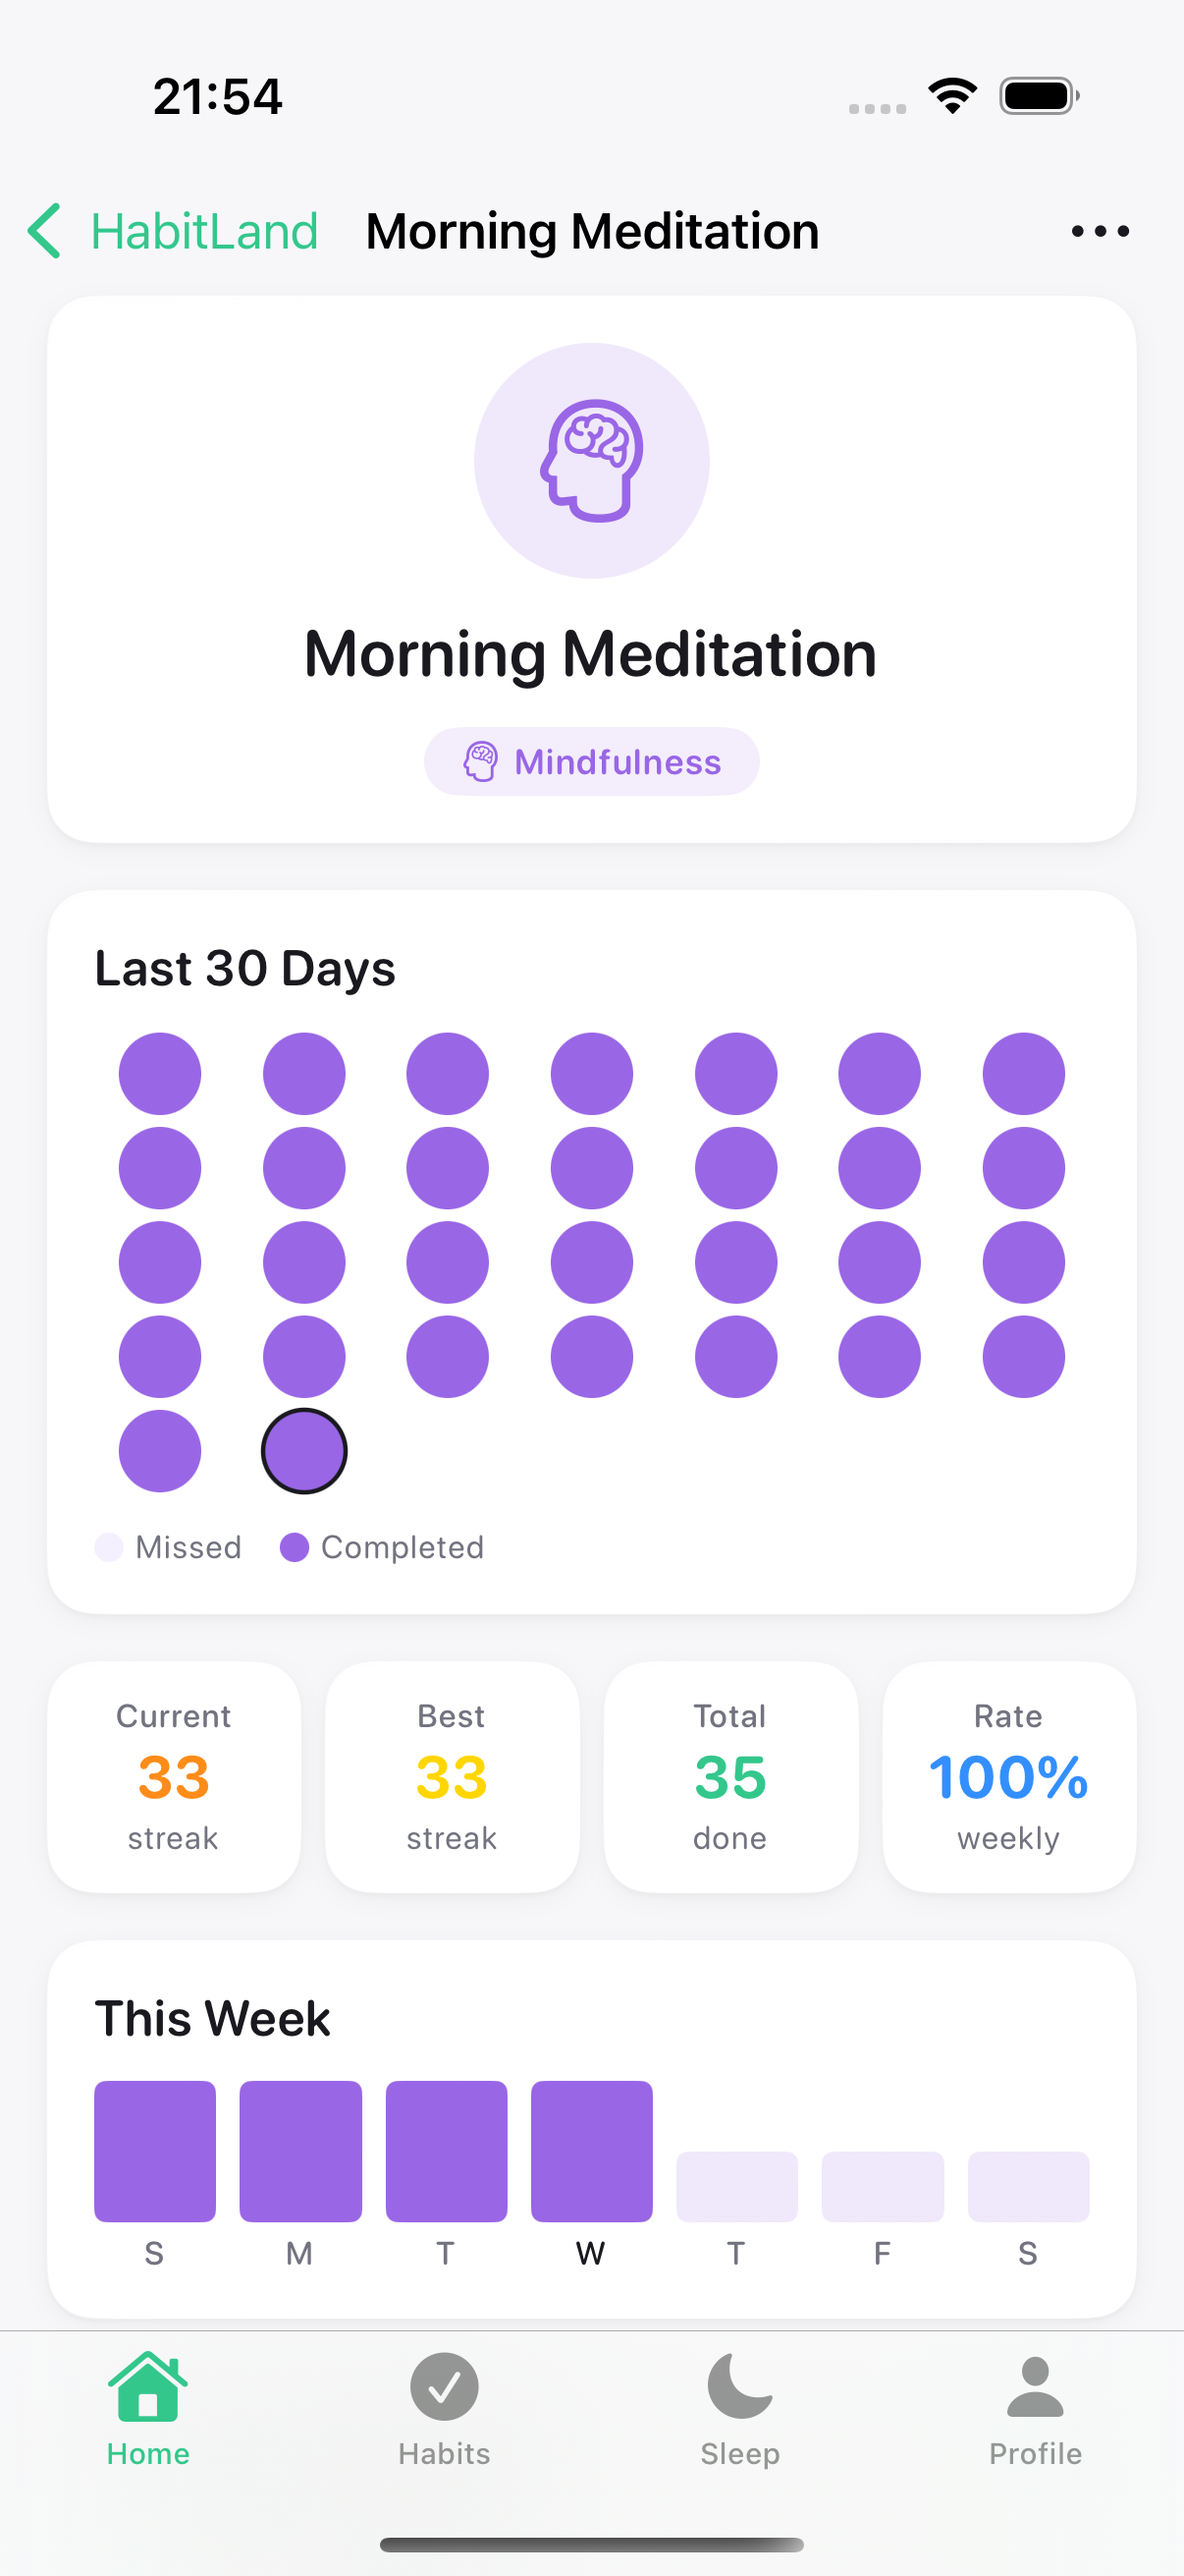
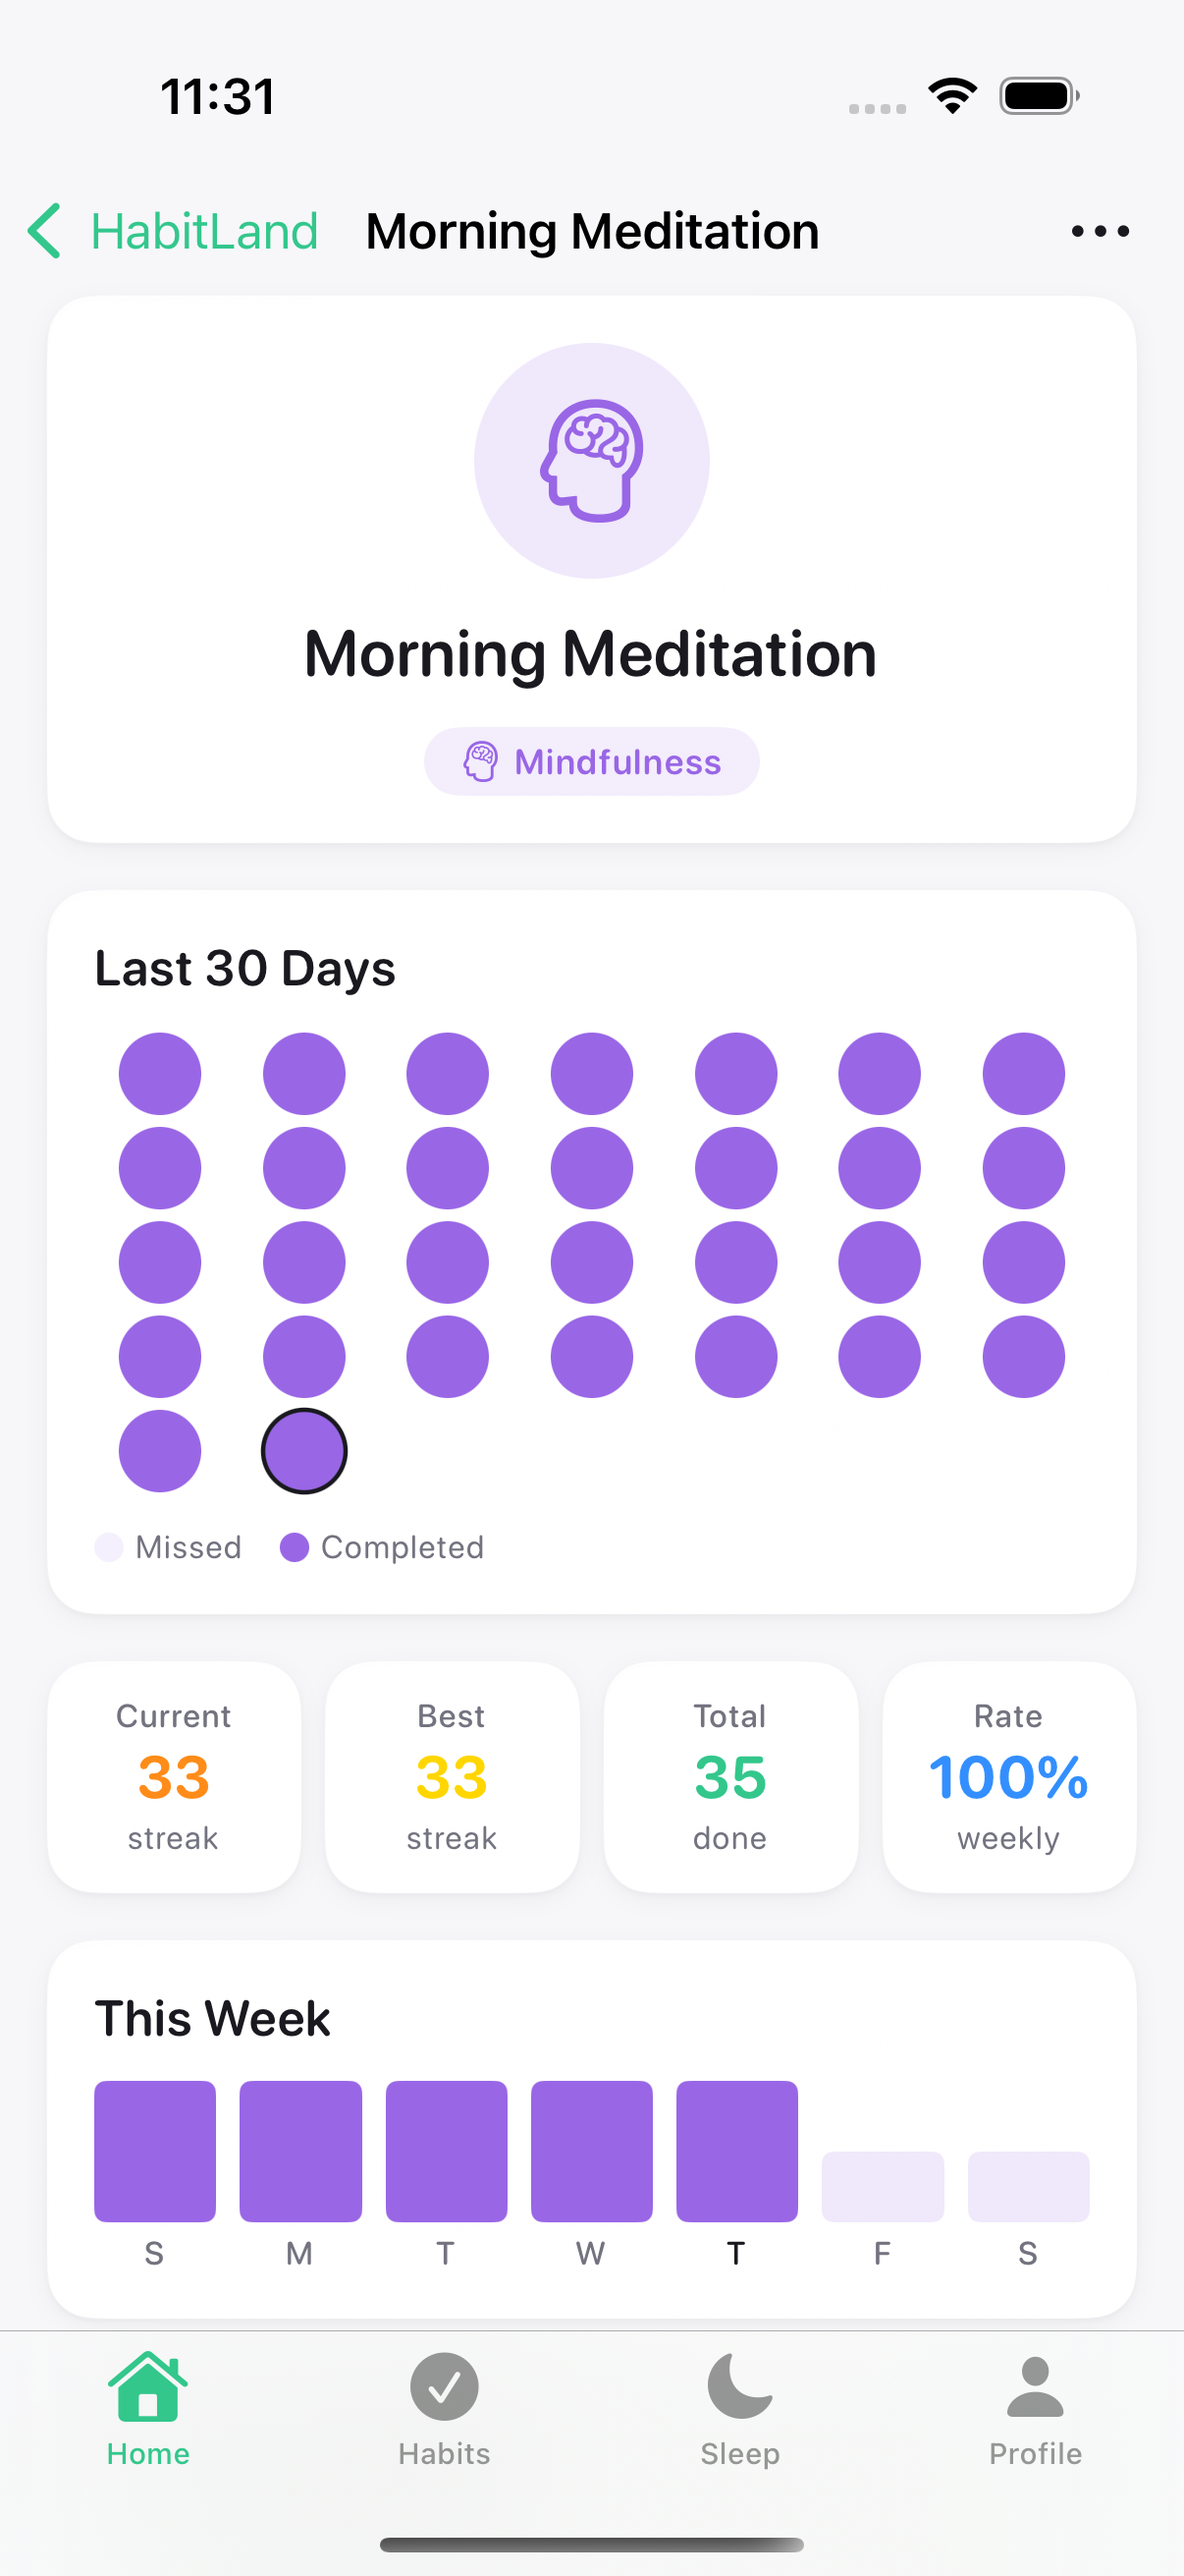
fix: notification cleanup, reminder screenshot, reduce motion support
- Fix EditHabitView/CreateHabitView: pass icon and customMessage to scheduleHabitReminder
- Remove dead scheduleHabitReminders (grouped) function
- Fix morning motivation: rotate messages by day instead of random (repeating notification)
- Add Reduce Motion support to all HLAnimation properties
- Add reminder screenshot (06) to App Store screenshots
- Seed reminder data on Morning Meditation for screenshot showcase

Changed region(s): [[0.5522, 0.8032, 0.675, 0.865], [0.1841, 0.0309, 0.2454, 0.0618], [0.1227, 0.0309, 0.1534, 0.0618]]

diff --git a/HabitLand/Services/NotificationManager.swift b/HabitLand/Services/NotificationManager.swift
@@ -33,46 +33,6 @@ final class NotificationManager: ObservableObject {
 
     // MARK: - Habit Reminders
 
-    func scheduleHabitReminders(habits: [(id: UUID, name: String, icon: String, reminderTime: Date)]) {
-        let reminderIds = habits.map { "habit-\($0.id.uuidString)" }
-        center.removePendingNotificationRequests(withIdentifiers: reminderIds + ["habit-group"])
-
-        let calendar = Calendar.current
-        var grouped: [String: [String]] = [:]
-        for habit in habits {
-            let key = "\(calendar.component(.hour, from: habit.reminderTime)):\(calendar.component(.minute, from: habit.reminderTime))"
-            grouped[key, default: []].append(habit.name)
-        }
-
-        for (timeKey, names) in grouped {
-            let parts = timeKey.split(separator: ":").compactMap { Int($0) }
-            guard parts.count == 2 else { continue }
-
-            let content = UNMutableNotificationContent()
-            if names.count == 1 {
-                content.title = "Time for \(names[0])"
-                content.body = "Don't break the chain! Complete your habit now."
-            } else {
-                content.title = "\(names.count) Habits Waiting"
-                let listed = names.prefix(3).joined(separator: ", ")
-                content.body = names.count <= 3
-                    ? "Time for \(listed)"
-                    : "Time for \(listed) and \(names.count - 3) more"
-            }
-            content.sound = .default
-            content.categoryIdentifier = "habitReminder"
-
-            var components = DateComponents()
-            components.hour = parts[0]
-            components.minute = parts[1]
-            let trigger = UNCalendarNotificationTrigger(dateMatching: components, repeats: true)
-
-            let identifier = names.count == 1 ? "habit-\(timeKey)" : "habit-group-\(timeKey)"
-            let request = UNNotificationRequest(identifier: identifier, content: content, trigger: trigger)
-            center.add(request)
-        }
-    }
-
     func scheduleHabitReminder(habitId: UUID, habitName: String, icon: String = "", at time: Date, customMessage: String = "") {
         let content = UNMutableNotificationContent()
         content.title = "Time for \(habitName)"
@@ -166,7 +126,8 @@ final class NotificationManager: ObservableObject {
             ("Fresh Start! 💪", "Yesterday is done. Today you can be even better."),
         ]
 
-        guard let pick = messages.randomElement() else { return }
+        let dayOfYear = Calendar.current.ordinality(of: .day, in: .year, for: Date()) ?? 1
+        let pick = messages[dayOfYear % messages.count]
         let content = UNMutableNotificationContent()
         content.title = pick.0
         content.body = pick.1

diff --git a/HabitLandUITests/AppStoreScreenshots.swift b/HabitLandUITests/AppStoreScreenshots.swift
@@ -68,17 +68,43 @@ final class AppStoreScreenshots: XCTestCase {
         dismissEverything(app)
         save(app, dir + "05_profile.png")
 
-        // 6. POMODORO TIMER
+        // 6. HABIT REMINDER — navigate from habit detail
         app.tabBars.buttons["Home"].tap()
         sleep(2)
-        // Tap Pomodoro button in toolbar
+        let meditationForReminder = app.staticTexts["Morning Meditation"]
+        if meditationForReminder.waitForExistence(timeout: 3) && meditationForReminder.isHittable {
+            meditationForReminder.tap()
+            sleep(2)
+            // Scroll down to find Reminders action row
+            app.swipeUp()
+            sleep(1)
+            let remindersLink = app.staticTexts["Reminders"]
+            if remindersLink.waitForExistence(timeout: 3) && remindersLink.isHittable {
+                remindersLink.tap()
+                sleep(2)
+                // Scroll down to show Custom Message and Preview sections
+                app.swipeUp()
+                sleep(1)
+                save(app, dir + "06_reminder.png")
+                // Go back to home
+                if app.navigationBars.buttons.element(boundBy: 0).exists {
+                    app.navigationBars.buttons.element(boundBy: 0).tap()
+                    sleep(1)
+                }
+            }
+            // Back from detail
+            if app.navigationBars.buttons.element(boundBy: 0).exists {
+                app.navigationBars.buttons.element(boundBy: 0).tap()
+                sleep(1)
+            }
+        }
+
+        // 7. POMODORO TIMER
         let pomodoroBtn = app.buttons["Pomodoro Focus"]
         if pomodoroBtn.waitForExistence(timeout: 3) && pomodoroBtn.isHittable {
             pomodoroBtn.tap()
             sleep(3)
-            // Do NOT call dismissEverything — it would close the fullScreenCover
-            save(app, dir + "06_pomodoro.png")
-            // Close pomodoro
+            save(app, dir + "07_pomodoro.png")
             let closeBtn = app.buttons["Close"]
             if closeBtn.waitForExistence(timeout: 1) && closeBtn.isHittable {
                 closeBtn.tap()

diff --git a/HabitLand/HabitLandApp.swift b/HabitLand/HabitLandApp.swift
@@ -230,6 +230,16 @@ struct HabitLandApp: App {
             }
         }
 
+        // Set reminder on Morning Meditation for screenshot showcase
+        if let meditationHabit = habitsData.first(where: { $0.name == "Morning Meditation" }) {
+            let fetchDescriptor = FetchDescriptor<Habit>(predicate: #Predicate { $0.name == "Morning Meditation" })
+            if let habit = try? context.fetch(fetchDescriptor).first {
+                habit.reminderEnabled = true
+                habit.reminderTime = calendar.date(from: DateComponents(hour: 7, minute: 30))
+                habit.reminderMessage = "Take a deep breath and start your day mindfully"
+            }
+        }
+
         // Create sleep logs for the past 10 days
         let sleepData: [(hours: Double, quality: SleepQuality)] = [
             (7.7, .good), (6.8, .fair), (8.2, .excellent), (7.0, .good),

diff --git a/HabitLand/Screens/Habits/EditHabitView.swift b/HabitLand/Screens/Habits/EditHabitView.swift
@@ -375,7 +375,7 @@ struct EditHabitView: View {
 
         NotificationManager.shared.cancelHabitReminder(habitId: habit.id)
         if reminderEnabled {
-            NotificationManager.shared.scheduleHabitReminder(habitId: habit.id, habitName: name, at: reminderTime)
+            NotificationManager.shared.scheduleHabitReminder(habitId: habit.id, habitName: name, icon: selectedIcon, at: reminderTime, customMessage: habit.reminderMessage)
         }
 
         dismiss()

diff --git a/HabitLand/Screens/Habits/CreateHabitView.swift b/HabitLand/Screens/Habits/CreateHabitView.swift
@@ -516,7 +516,7 @@ struct CreateHabitView: View {
         try? modelContext.save()
 
         if reminderEnabled {
-            NotificationManager.shared.scheduleHabitReminder(habitId: habit.id, habitName: habit.name, at: reminderTime)
+            NotificationManager.shared.scheduleHabitReminder(habitId: habit.id, habitName: habit.name, icon: habit.icon, at: reminderTime)
         }
 
         dismiss()
